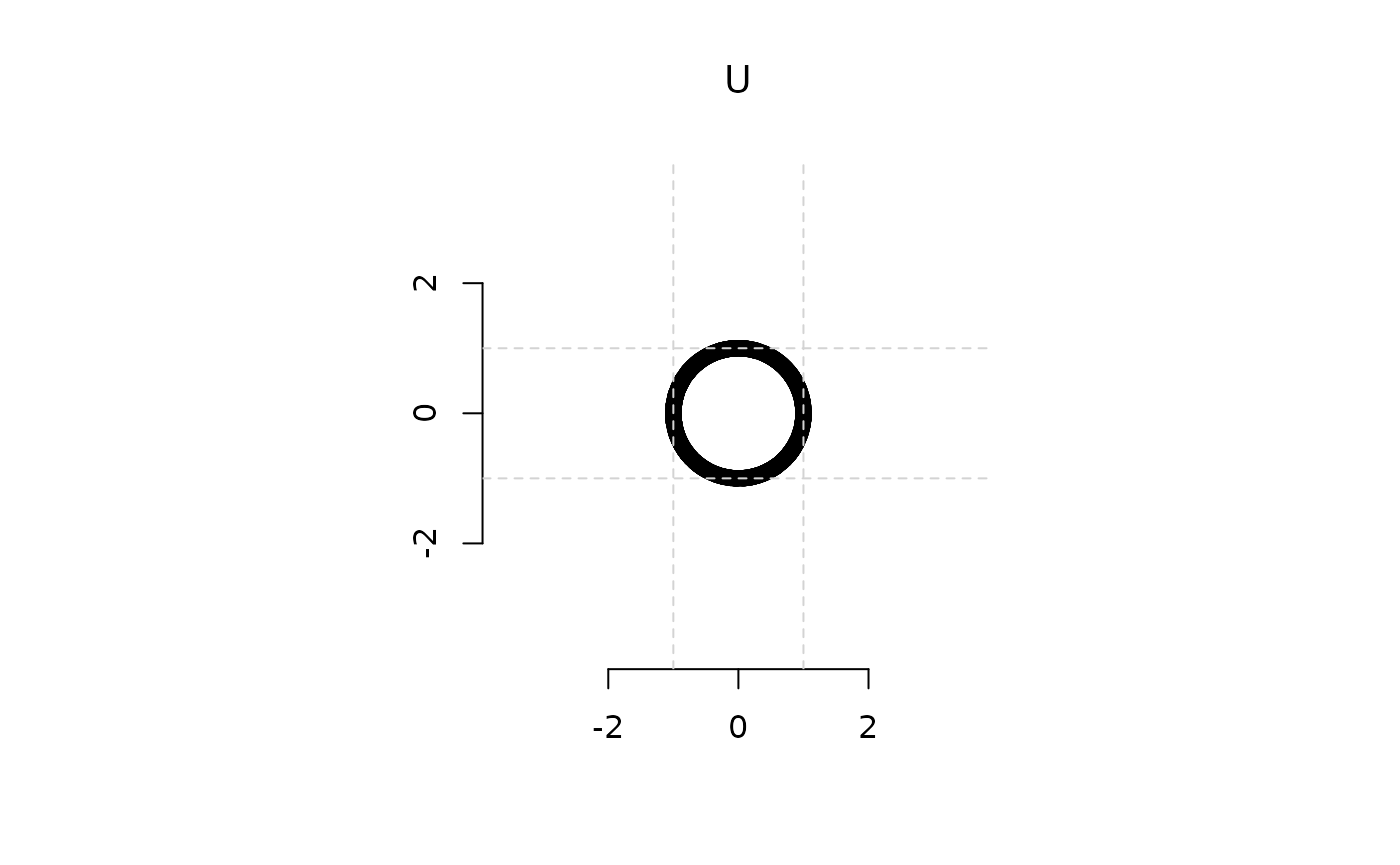
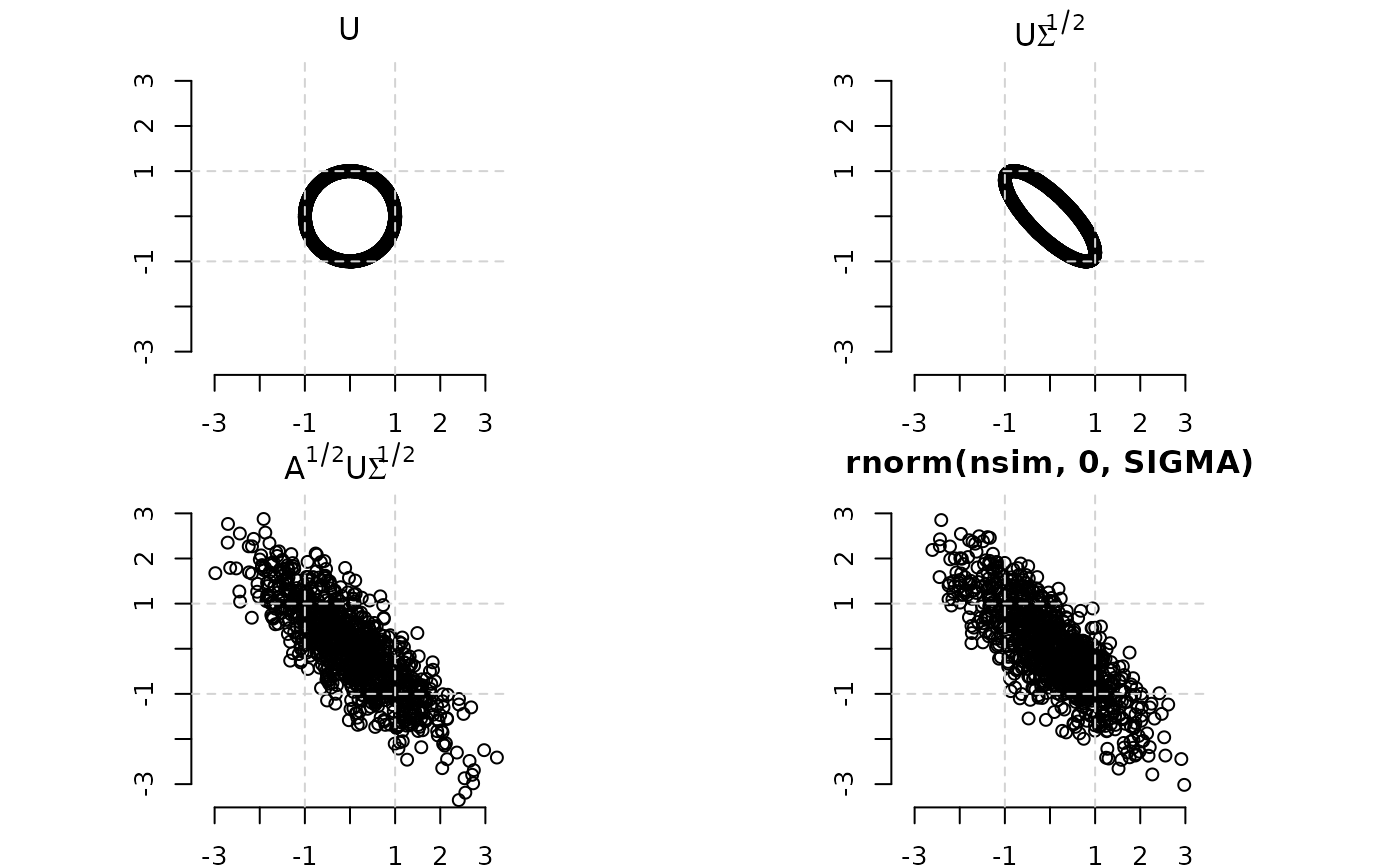
Deploying to gh-pages from @ swihart/mvpd@9053e51b20f33e6900f2c79b4946cfc8113fa614 🚀

diff --git a/articles/intro.html b/articles/intro.html
@@ -67,7 +67,7 @@
     
 <div class="sourceCode" id="cb1"><pre class="downlit sourceCode r">
 <code class="sourceCode R"><span><span class="kw"><a href="https://rdrr.io/r/base/library.html" class="external-link">library</a></span><span class="op">(</span><span class="va"><a href="https://github.com/stla/uniformly" class="external-link">uniformly</a></span><span class="op">)</span></span>
-<span></span>
+<span><span class="fu"><a href="https://rdrr.io/r/base/Random.html" class="external-link">set.seed</a></span><span class="op">(</span><span class="fl">6789</span><span class="op">)</span></span>
 <span><span class="co">## creator view</span></span>
 <span><span class="va">nsim</span> <span class="op">&lt;-</span> <span class="fl">1e3</span></span>
 <span><span class="va">d</span> <span class="op">&lt;-</span> <span class="fl">2</span></span>
@@ -110,7 +110,7 @@ the axes.</p>
 <span><span class="op">)</span></span></code></pre></div>
 <p>This is the uniform circle.</p>
 <div class="sourceCode" id="cb5"><pre class="downlit sourceCode r">
-<code class="sourceCode R"><span><span class="fu"><a href="https://rdrr.io/r/graphics/par.html" class="external-link">par</a></span><span class="op">(</span>pty<span class="op">=</span><span class="st">'s'</span>, mfrow<span class="op">=</span><span class="fu"><a href="https://rdrr.io/r/base/c.html" class="external-link">c</a></span><span class="op">(</span><span class="fl">1</span>,<span class="fl">1</span><span class="op">)</span>, bty<span class="op">=</span><span class="st">"n"</span><span class="op">)</span></span>
+<code class="sourceCode R"><span><span class="fu"><a href="https://rdrr.io/r/graphics/par.html" class="external-link">par</a></span><span class="op">(</span>pty<span class="op">=</span><span class="st">'s'</span>, mfrow<span class="op">=</span><span class="fu"><a href="https://rdrr.io/r/base/c.html" class="external-link">c</a></span><span class="op">(</span><span class="fl">2</span>,<span class="fl">2</span><span class="op">)</span>, bty<span class="op">=</span><span class="st">"n"</span>, oma<span class="op">=</span><span class="fu"><a href="https://rdrr.io/r/base/rep.html" class="external-link">rep</a></span><span class="op">(</span><span class="fl">0</span>,<span class="fl">4</span><span class="op">)</span>, mai<span class="op">=</span><span class="fu"><a href="https://rdrr.io/r/base/c.html" class="external-link">c</a></span><span class="op">(</span><span class="fl">0.3</span>,<span class="fl">0</span>,<span class="fl">0.3</span>,<span class="fl">0</span><span class="op">)</span><span class="op">)</span></span>
 <span><span class="fu"><a href="https://rdrr.io/r/graphics/plot.default.html" class="external-link">plot</a></span><span class="op">(</span> <span class="va">unif_draw</span>, </span>
 <span>      xlim<span class="op">=</span><span class="va">maxrange</span><span class="op">*</span><span class="fu"><a href="https://rdrr.io/r/base/c.html" class="external-link">c</a></span><span class="op">(</span><span class="op">-</span><span class="fl">1</span>,<span class="fl">1</span><span class="op">)</span>,</span>
 <span>      ylim<span class="op">=</span><span class="va">maxrange</span><span class="op">*</span><span class="fu"><a href="https://rdrr.io/r/base/c.html" class="external-link">c</a></span><span class="op">(</span><span class="op">-</span><span class="fl">1</span>,<span class="fl">1</span><span class="op">)</span>,</span>
@@ -146,7 +146,7 @@ the axes.</p>
 <span>      ylab<span class="op">=</span><span class="st">""</span>,</span>
 <span>      main<span class="op">=</span><span class="st">"rnorm(nsim, 0, SIGMA)"</span><span class="op">)</span></span>
 <span><span class="fu"><a href="https://rdrr.io/r/graphics/abline.html" class="external-link">abline</a></span><span class="op">(</span>h<span class="op">=</span><span class="fu"><a href="https://rdrr.io/r/base/c.html" class="external-link">c</a></span><span class="op">(</span><span class="op">-</span><span class="fl">1</span>,<span class="fl">1</span><span class="op">)</span>, v<span class="op">=</span><span class="fu"><a href="https://rdrr.io/r/base/c.html" class="external-link">c</a></span><span class="op">(</span><span class="op">-</span><span class="fl">1</span>,<span class="fl">1</span><span class="op">)</span>, lty<span class="op">=</span><span class="fl">2</span>, col<span class="op">=</span><span class="st">"lightgrey"</span><span class="op">)</span></span></code></pre></div>
-<p><img src="intro_files/figure-html/unnamed-chunk-5-1.png" width="25%"><img src="intro_files/figure-html/unnamed-chunk-5-2.png" width="25%"><img src="intro_files/figure-html/unnamed-chunk-5-3.png" width="25%"><img src="intro_files/figure-html/unnamed-chunk-5-4.png" width="25%"></p>
+<p><img src="intro_files/figure-html/unnamed-chunk-5-1.png" width="700"></p>
 <p><math display="inline" xmlns="http://www.w3.org/1998/Math/MathML"><semantics><mi>U</mi><annotation encoding="application/x-tex">U</annotation></semantics></math>
 is the uniform circle transformed into an ellipse
 <math display="inline" xmlns="http://www.w3.org/1998/Math/MathML"><semantics><mrow><mi>U</mi><msup><mi>Σ</mi><mrow><mn>1</mn><mi>/</mi><mn>2</mn></mrow></msup></mrow><annotation encoding="application/x-tex">U \Sigma^{1/2}</annotation></semantics></math>,
